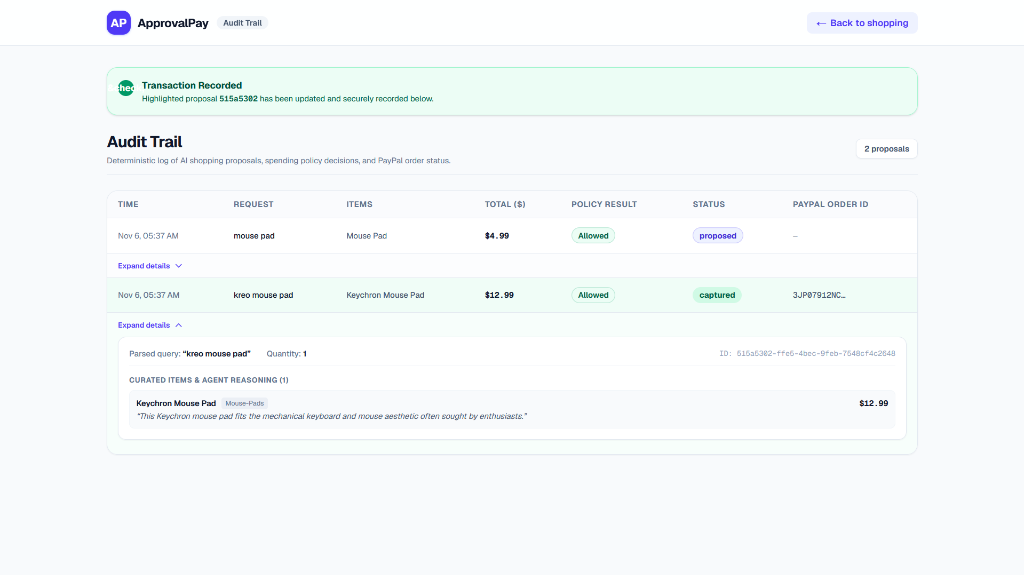
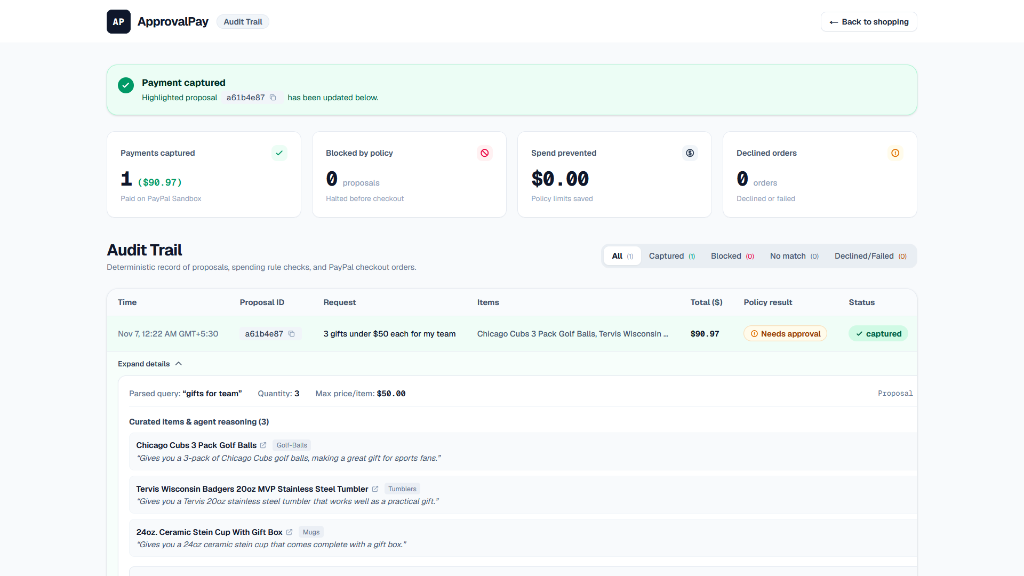
feat: add subtle functional animations, project screenshots, and enhanced README

diff --git a/src/components/VerdictPanel.tsx b/src/components/VerdictPanel.tsx
@@ -126,7 +126,7 @@ export function VerdictPanel({ proposal, isLoadingAgent }: VerdictPanelProps) {
       {/* Large Status Pill */}
       <div>
         {isCaptured ? (
-          <div className="rounded-xl bg-emerald-50 border border-emerald-300 p-4">
+          <div className="rounded-xl bg-emerald-50 border border-emerald-300 p-4 animate-scale-in">
             <div className="flex items-center gap-2.5">
               <span className="inline-flex items-center justify-center h-6 w-6 rounded-full bg-emerald-600 text-white shrink-0">
                 <svg className="h-3.5 w-3.5" fill="none" viewBox="0 0 24 24" stroke="currentColor" strokeWidth={3}>
@@ -140,7 +140,7 @@ export function VerdictPanel({ proposal, isLoadingAgent }: VerdictPanelProps) {
             </p>
           </div>
         ) : isNoMatch ? (
-          <div className="rounded-xl bg-slate-100 border border-slate-200 p-4">
+          <div className="rounded-xl bg-slate-100 border border-slate-200 p-4 animate-scale-in">
             <div className="flex items-center gap-2.5">
               <span className="inline-flex items-center justify-center h-6 w-6 rounded-full bg-slate-400 text-white font-bold text-xs shrink-0">
                 —
@@ -153,7 +153,7 @@ export function VerdictPanel({ proposal, isLoadingAgent }: VerdictPanelProps) {
             </p>
           </div>
         ) : !verdict.allowed ? (
-          <div className="rounded-xl bg-rose-50 border border-rose-200 p-4">
+          <div className="rounded-xl bg-rose-50 border border-rose-200 p-4 animate-scale-in">
             <div className="flex items-center gap-2.5">
               <span className="inline-flex items-center justify-center h-6 w-6 rounded-full bg-rose-600 text-white shrink-0">
                 <svg className="h-3.5 w-3.5" fill="none" viewBox="0 0 24 24" stroke="currentColor" strokeWidth={3}>
@@ -175,7 +175,7 @@ export function VerdictPanel({ proposal, isLoadingAgent }: VerdictPanelProps) {
             </ul>
           </div>
         ) : verdict.needsApproval ? (
-          <div className="rounded-xl bg-amber-50 border border-amber-300 p-4">
+          <div className="rounded-xl bg-amber-50 border border-amber-300 p-4 animate-scale-in">
             <div className="flex items-center gap-2.5">
               <span className="inline-flex items-center justify-center h-6 w-6 rounded-full bg-amber-500 text-white font-bold text-xs shrink-0">
                 !
@@ -187,7 +187,7 @@ export function VerdictPanel({ proposal, isLoadingAgent }: VerdictPanelProps) {
             </p>
           </div>
         ) : (
-          <div className="rounded-xl bg-emerald-50 border border-emerald-200 p-4">
+          <div className="rounded-xl bg-emerald-50 border border-emerald-200 p-4 animate-scale-in">
             <div className="flex items-center gap-2.5">
               <span className="inline-flex items-center justify-center h-6 w-6 rounded-full bg-emerald-600 text-white shrink-0">
                 <svg className="h-3.5 w-3.5" fill="none" viewBox="0 0 24 24" stroke="currentColor" strokeWidth={3}>

diff --git a/src/app/globals.css b/src/app/globals.css
@@ -19,3 +19,41 @@ body {
   background: var(--background);
   color: var(--foreground);
 }
+
+@keyframes fadeIn {
+  from {
+    opacity: 0;
+    transform: translateY(4px);
+  }
+  to {
+    opacity: 1;
+    transform: translateY(0);
+  }
+}
+
+@keyframes scaleIn {
+  from {
+    opacity: 0;
+    transform: scale(0.98);
+  }
+  to {
+    opacity: 1;
+    transform: scale(1);
+  }
+}
+
+.animate-fade-in {
+  animation: fadeIn 200ms cubic-bezier(0.16, 1, 0.3, 1) forwards;
+}
+
+.animate-scale-in {
+  animation: scaleIn 180ms cubic-bezier(0.16, 1, 0.3, 1) forwards;
+}
+
+@media (prefers-reduced-motion: reduce) {
+  .animate-fade-in,
+  .animate-scale-in {
+    animation: none !important;
+    transform: none !important;
+  }
+}

diff --git a/src/components/ProductCardList.tsx b/src/components/ProductCardList.tsx
@@ -176,7 +176,7 @@ export function ProductCardList({ proposal, isLoading }: ProductCardListProps) {
           return (
             <div
               key={`${product.id}-${idx}`}
-              className="group relative rounded-xl border border-slate-200/90 bg-white p-4 shadow-2xs hover:border-slate-300 transition-all"
+              className="group relative rounded-xl border border-slate-200/90 bg-white p-4 shadow-2xs hover:border-slate-300 transition-all animate-fade-in"
             >
               <div className="flex items-start gap-3.5">
                 {/* 64px image thumbnail */}

diff --git a/README.md b/README.md
@@ -4,6 +4,12 @@ An AI shopping agent governed by deterministic spending policy code, ensuring ze
 
 Live Application: https://approvalpay.onrender.com
 
+## Screenshots
+
+| Shopping & Policy Evaluation | Audit Trail & Ledger |
+|---|---|
+| ![Shopping & Policy Evaluation](docs/screenshots/main-page.jpg) | ![Audit Trail & Ledger](docs/screenshots/audit-trail.png) |
+
 ## How It Works
 
 The system enforces a strict one-way pipeline: parse -> search -> pick by ID -> policy -> human approval -> PayPal sandbox -> audit log.
